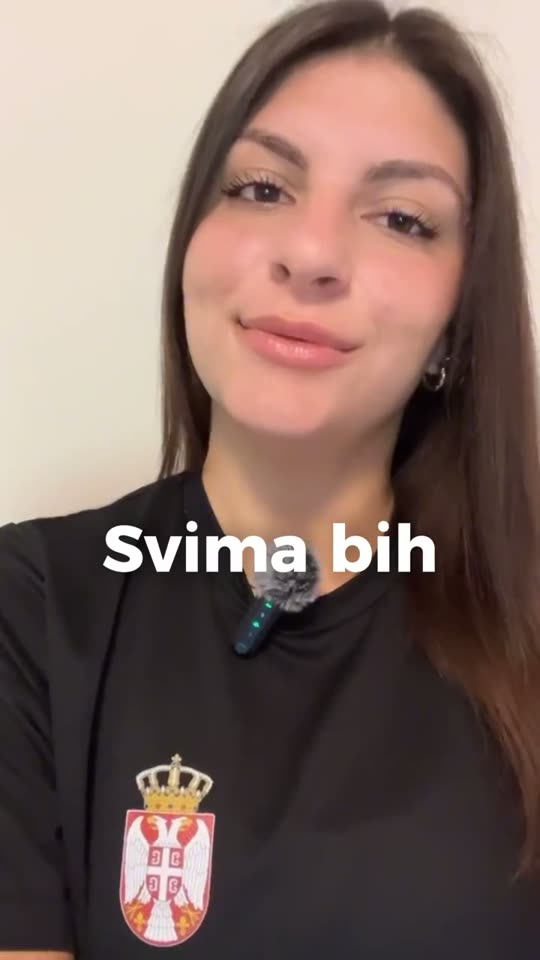
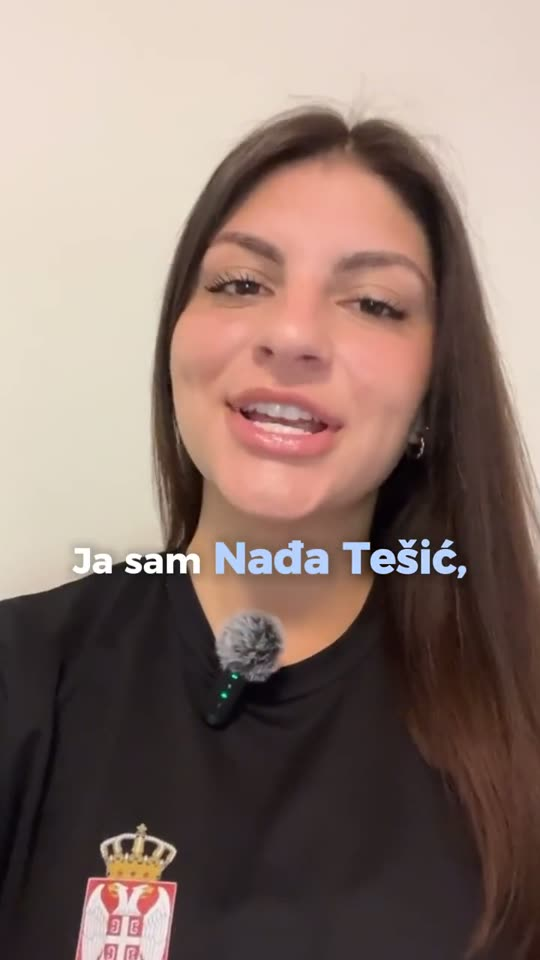
v16: Nadjin poster ujednacen sa Majinim
Na starom posteru titl je stajao u dva reda tacno ispod dugmeta za pustanje,
pa je plocica delovala zguzvano pored Majine, koja je cista.

Kod Nadje cist kadar ne postoji - govori bez prekida, titl ima na svih 26
slicica, provereno vadjenjem svake sekunde u zaseban fajl. Zato je biran
najmanje sudarljiv, i to sa nacrtanim dugmetom preko slike da se vidi
stvaran odnos.

Izabrana 1. sekunda: titl sitan, u jednom redu, ispod dugmeta umesto pod
njim, i pise "Ja sam Nadja Tesic". Odbaceni 8. s (krupno pod dugmetom), 23. s
(lice se ne vidi) i dotadasnji 24. s.

diff --git a/v16/README.md b/v16/README.md
@@ -5262,3 +5262,20 @@ Na stranici sada nema nijedne oznake `ZA POTVRDU`; ostaju samo `NACRT`
 (tekst koji čeka copy) i `MATERIJAL OD KLIJENTA`.
 
 Treće mesto ostaje prazno — Novak je najavio još dva snimka.
+
+### Nađin poster ujednačen sa Majinim
+
+Na starom posteru (24. s) titl „Svima bih preporučila" stajao je u dva reda
+tačno ispod dugmeta za puštanje, pa je pločica delovala zgužvano — dok je
+Majina čista, jer joj je kadar tražen van titla.
+
+**Kod Nađe čist kadar ne postoji** — ona govori bez prekida, pa titl ima na
+svih 26 sličica. Provereno vađenjem svake sekunde u zaseban fajl.
+
+Zato je biran **najmanje sudarljiv**, i to sa nacrtanim dugmetom preko slike,
+da se vidi stvaran odnos. Izabrana **1. sekunda**: titl je sitan, u jednom redu,
+i stoji **ispod** dugmeta umesto pod njim. Uz to piše „Ja sam Nađa Tešić", što
+i koristi.
+
+Odbačeni: 8. s („ACL-a." — krupno pod dugmetom, usta otvorena), 23. s (kadar iz
+teretane, lice se ne vidi), 24. s (dotadašnji).
